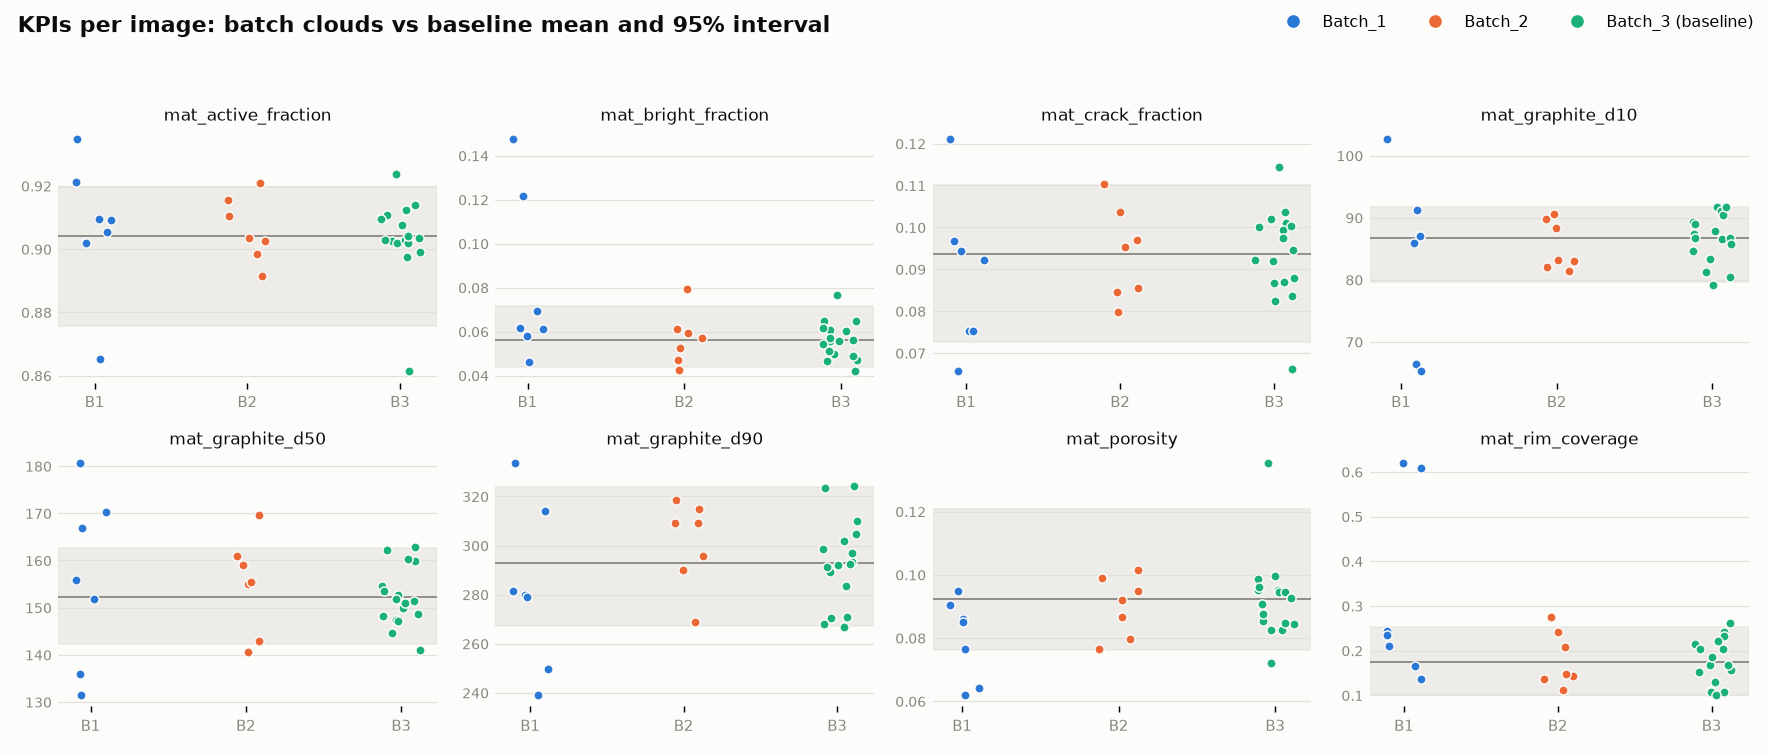
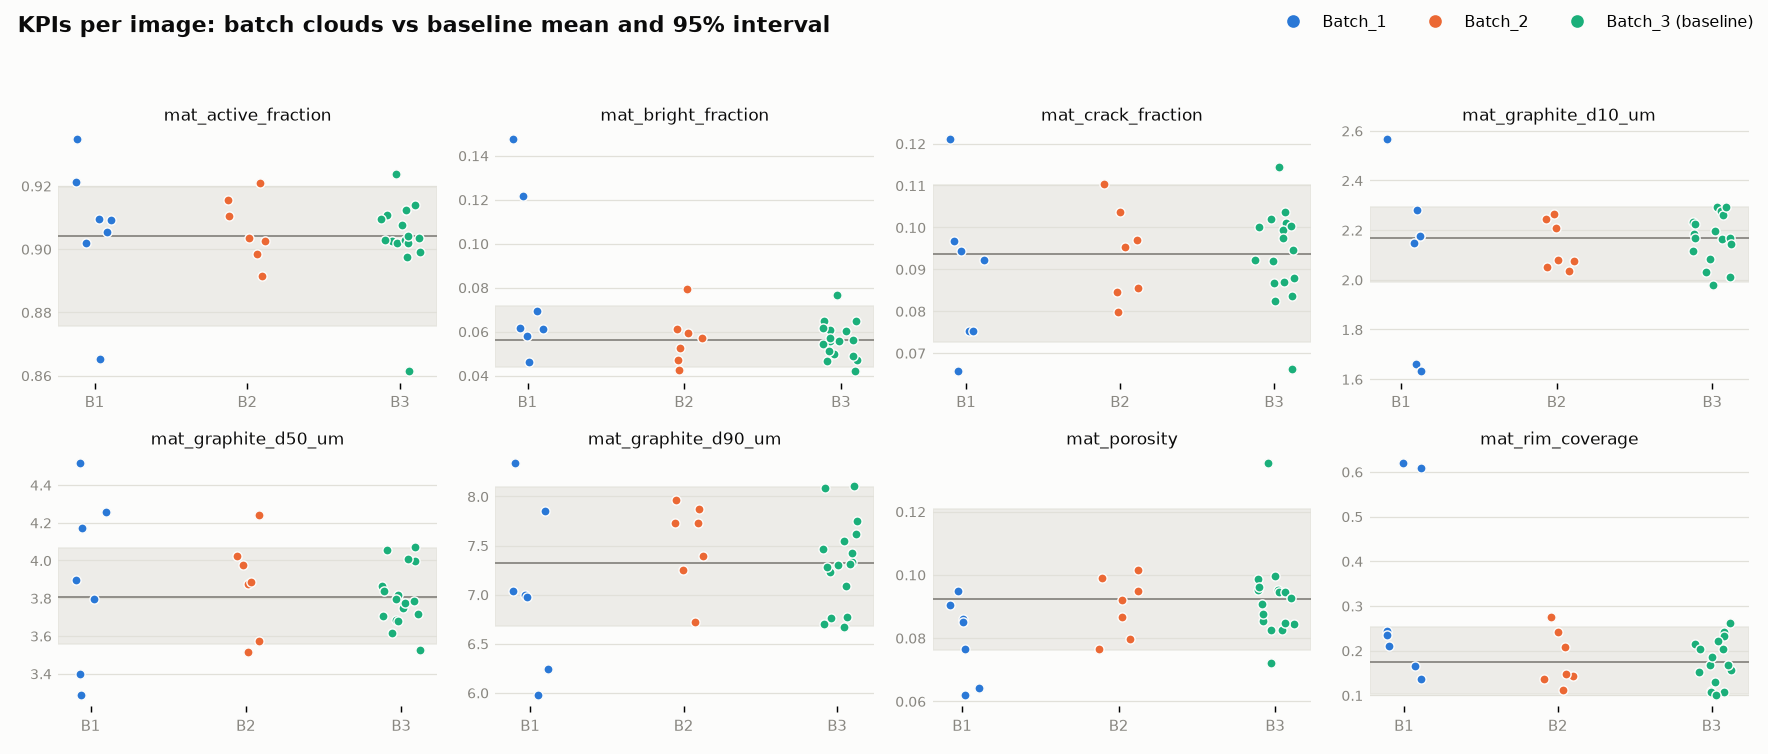
Report KPI lengths in um, write stats report from stats.py, parallelise run
- kpis_materials: compute() takes pixel_size_um (validated); graphite
  D10/D50/D90 are now in micrometres and renamed with the _um suffix,
  matching the geometric lane convention. Effect sizes, p-values and
  verdicts are invariant to the unit change; only the d-values scale.
- stats: the report is written to results/stats_baseline_<baseline>.txt
  by the script itself (and echoed to stdout). Root-cause fix for the
  stale report on main, which only existed via shell redirection and
  was skipped by the last regeneration.
- run: images fan out over a process pool (--jobs, default cpu-1 max 8,
  as in run_kpis.py); ~16 min serial -> ~2-3 min. Output rows sorted so
  parquets are deterministic regardless of completion order.
- Regenerated results: d10/d50/d90 = 2.17/3.80/7.32 um baseline;
  Batch_1 INVESTIGATE p=0.068, Batch_2 ACCEPT p=0.906 (unchanged).
  Refreshed leave-one-out: 11/17 baseline images flagged (the stale
  report said 9/17), confirming the calibration need for spec 003.

diff --git a/src/run.py b/src/run.py
@@ -3,15 +3,18 @@
 results/diagnostics.parquet. Everything downstream reads only these.
 
 KPI modules plug in via the shared interface
-compute(masks, instances, instances_border) -> dict[str, float];
+compute(masks, instances, instances_border, pixel_size_um) -> dict[str, float];
 modules not present yet (colleague's geometry, physics on Modal) are
-skipped with a notice.
+skipped with a notice. KPIs with a _um suffix are in micrometres.
 """
 
 from __future__ import annotations
 
+import argparse
 import importlib
+import os
 import sys
+from concurrent.futures import ProcessPoolExecutor, as_completed
 from pathlib import Path
 
 import numpy as np
@@ -27,51 +30,82 @@ TIERS = {"mat": "materials", "phys": "physics", "geo": "geometry"}
 MODULES = ["src.kpis_materials", "src.kpis_physics", "src.kpis_geometry"]
 
 
-def kpi_modules() -> list:
+def kpi_modules(quiet: bool = False) -> list:
     mods = []
     for name in MODULES:
         try:
             mods.append(importlib.import_module(name))
         except ImportError:
-            print(f"note: {name} not available, skipping")
+            if not quiet:
+                print(f"note: {name} not available, skipping")
     return mods
 
 
-def main() -> None:
-    cfg = load_config()
+def process_image(path: Path, batch: str, cfg: dict) -> dict:
+    """Segment one image and compute its KPIs. Runs in a worker process;
+    returns small dicts only (no arrays cross the process boundary)."""
     np.random.seed(cfg["seed"])
     ncfg = cfg["normalise"]
-    mods = kpi_modules()
+    norm, lo, hi = normalise(load(path), ncfg["p_low"], ncfg["p_high"])
+    masks = segment(norm, cfg)
+    instances, border = graphite_instances(masks, cfg)
 
+    rows = []
+    try:
+        for mod in kpi_modules(quiet=True):
+            for kpi, value in mod.compute(masks, instances, border,
+                                          cfg["pixel_size_um"]).items():
+                tier = TIERS.get(kpi.split("_")[0])
+                if tier is None:
+                    print(f"warning: KPI {kpi!r} has no mat_/phys_/geo_ "
+                          "prefix, tier set to 'other'")
+                    tier = "other"
+                rows.append({"image": path.stem, "batch": batch,
+                             "kpi": kpi, "value": value, "tier": tier})
+    except ValueError as e:
+        # unmeasurable image (e.g. no graphite segmented): flag it and keep
+        # going rather than losing the whole run
+        return {"failed": {"image": path.stem, "batch": batch, "error": str(e)}}
+    n_inst = len(np.unique(instances)) - 1
+    diag = {"image": path.stem, "batch": batch,
+            "norm_p05": lo, "norm_p995": hi,
+            "n_graphite_instances": n_inst,
+            "frac_border_instances": len(border) / max(n_inst, 1)}
+    return {"rows": rows, "diag": diag}
+
+
+def main() -> None:
+    parser = argparse.ArgumentParser()
+    parser.add_argument("--jobs", type=int,
+                        default=min(8, max(1, (os.cpu_count() or 2) - 1)),
+                        help="worker processes (default: cpu_count-1, max 8)")
+    args = parser.parse_args()
+
+    cfg = load_config()
+    kpi_modules()  # print the skipped-module notice once, up front
+
+    tasks = [(path, batch)
+             for batch, paths in list_batches(cfg).items()
+             for path in paths]
     rows, diags, failed = [], [], []
-    for batch, paths in list_batches(cfg).items():
-        for path in paths:
-            norm, lo, hi = normalise(load(path), ncfg["p_low"], ncfg["p_high"])
-            masks = segment(norm, cfg)
-            instances, border = graphite_instances(masks, cfg)
-
-            try:
-                for mod in mods:
-                    for kpi, value in mod.compute(masks, instances, border).items():
-                        tier = TIERS.get(kpi.split("_")[0])
-                        if tier is None:
-                            print(f"warning: KPI {kpi!r} has no mat_/phys_/geo_ "
-                                  "prefix, tier set to 'other'")
-                            tier = "other"
-                        rows.append({"image": path.stem, "batch": batch,
-                                     "kpi": kpi, "value": value, "tier": tier})
-            except ValueError as e:
-                # unmeasurable image (e.g. no graphite segmented): flag it
-                # and keep going rather than losing the whole run
-                failed.append({"image": path.stem, "batch": batch, "error": str(e)})
-                print(f"UNMEASURABLE {batch} {path.stem}: {e}")
+    with ProcessPoolExecutor(max_workers=args.jobs) as pool:
+        futures = {pool.submit(process_image, path, batch, cfg): (path, batch)
+                   for path, batch in tasks}
+        for n, fut in enumerate(as_completed(futures), 1):
+            path, batch = futures[fut]
+            res = fut.result()
+            if "failed" in res:
+                failed.append(res["failed"])
+                print(f"[{n}/{len(tasks)}] UNMEASURABLE {batch} {path.stem}: "
+                      f"{res['failed']['error']}")
                 continue
-            n_inst = len(np.unique(instances)) - 1
-            diags.append({"image": path.stem, "batch": batch,
-                          "norm_p05": lo, "norm_p995": hi,
-                          "n_graphite_instances": n_inst,
-                          "frac_border_instances": len(border) / max(n_inst, 1)})
-            print(f"{batch} {path.stem}: done")
+            rows.extend(res["rows"])
+            diags.append(res["diag"])
+            print(f"[{n}/{len(tasks)}] {batch} {path.stem}: done")
+
+    # deterministic output order regardless of completion order
+    rows.sort(key=lambda r: (r["batch"], r["image"], r["kpi"]))
+    diags.sort(key=lambda d: (d["batch"], d["image"]))
 
     out = ROOT / "results"
     out.mkdir(exist_ok=True)

diff --git a/src/stats.py b/src/stats.py
@@ -130,27 +130,40 @@ def main() -> None:
     out = ROOT / "results"
     eff.to_parquet(out / "effects.parquet", index=False)
 
-    print(f"baseline: {baseline} "
-          f"({len(wide.loc[baseline])} images, {wide.shape[1]} KPIs)\n")
+    # The report is written to a file alongside effects.parquet (and echoed
+    # to stdout) so it can never go stale relative to the parquets, as it
+    # did when it only existed via shell redirection.
+    lines: list[str] = []
+
+    def emit(text: str = "") -> None:
+        lines.append(text)
+        print(text)
+
+    emit(f"baseline: {baseline} "
+         f"({len(wide.loc[baseline])} images, {wide.shape[1]} KPIs)\n")
     for batch in eff.batch.unique():
         p_mv = hotelling_t2_p(wide, baseline, batch)
         sub = eff[eff.batch == batch]
         verdict, drivers = decide(sub, p_mv)
-        print(f"=== {batch}: {verdict.upper()} (multivariate p={p_mv:.4f}) ===")
-        print(sub.reindex(sub.effect_size.abs().sort_values(ascending=False).index)
-              [["kpi", "effect_size", "p_value", "baseline_mean", "batch_mean"]]
-              .head(5).to_string(index=False))
-        print()
+        emit(f"=== {batch}: {verdict.upper()} (multivariate p={p_mv:.4f}) ===")
+        emit(sub.reindex(sub.effect_size.abs().sort_values(ascending=False).index)
+             [["kpi", "effect_size", "p_value", "baseline_mean", "batch_mean"]]
+             .head(5).to_string(index=False))
+        emit()
 
-    print("--- within-batch CV (per KPI) ---")
-    print(consistency(wide).T.round(3).to_string())
+    emit("--- within-batch CV (per KPI) ---")
+    emit(consistency(wide).T.round(3).to_string())
 
-    print("\n--- leave-one-out false alarms on baseline ---")
+    emit("\n--- leave-one-out false alarms on baseline ---")
     loo = loo_false_alarms(wide, baseline, decide)
-    print(loo.to_string(index=False))
+    emit(loo.to_string(index=False))
     n_bad = (loo.verdict != "accept").sum()
-    print(f"\n{n_bad}/{len(loo)} baseline images would be flagged "
-          f"(this number goes on a slide)")
+    emit(f"\n{n_bad}/{len(loo)} baseline images would be flagged "
+         f"(this number goes on a slide)")
+
+    report = out / f"stats_baseline_{baseline}.txt"
+    report.write_text("\n".join(lines) + "\n", encoding="utf-8")
+    print(f"\nwrote {report.relative_to(ROOT)}")
 
 
 if __name__ == "__main__":

diff --git a/src/kpis_materials.py b/src/kpis_materials.py
@@ -2,10 +2,12 @@
 names, measures and specifies on a datasheet.
 
 Interface shared with kpis_geometry (colleague) and kpis_physics:
-compute(masks, instances) -> dict[str, float]
+compute(masks, instances, instances_border, pixel_size_um) -> dict[str, float]
 masks: dict of boolean arrays (pore, graphite, bright, rim)
 instances: labelled int array for graphite; border-touching labels in
 instances_border are excluded from size statistics.
+pixel_size_um: physical pixel size; KPIs with a _um suffix are in
+micrometres, all others are dimensionless fractions/ratios.
 """
 
 from __future__ import annotations
@@ -49,7 +51,9 @@ def _crack_mask(masks: dict[str, np.ndarray]) -> np.ndarray:
 
 
 def compute(masks: dict[str, np.ndarray], instances: np.ndarray,
-            instances_border: list[int]) -> dict[str, float]:
+            instances_border: list[int], pixel_size_um: float) -> dict[str, float]:
+    if not pixel_size_um or pixel_size_um <= 0:
+        raise ValueError(f"pixel_size_um must be positive, got {pixel_size_um!r}")
     total = masks["pore"].size
     graphite_px = masks["graphite"].sum()
     if graphite_px == 0:
@@ -71,11 +75,11 @@ def compute(masks: dict[str, np.ndarray], instances: np.ndarray,
 
     # Feedstock particle size distribution; first thing that moves when a
     # supplier changes milling or grade.
-    diam = _equivalent_diameters(instances, instances_border)
+    diam = _equivalent_diameters(instances, instances_border) * pixel_size_um
     if diam.size:
         d10, d50, d90 = np.percentile(diam, [10, 50, 90])
-        out.update({"mat_graphite_d10": d10, "mat_graphite_d50": d50,
-                    "mat_graphite_d90": d90})
+        out.update({"mat_graphite_d10_um": d10, "mat_graphite_d50_um": d50,
+                    "mat_graphite_d90_um": d90})
 
     # Intra-particle damage from over-calendering or weak feedstock.
     out["mat_crack_fraction"] = _crack_mask(masks).sum() / graphite_px

diff --git a/src/verdict.py b/src/verdict.py
@@ -15,9 +15,9 @@ import pandas as pd
 # physical-meaning sentences, quoted verbatim in reports and Q&A
 MEANINGS = {
     "mat_porosity": "The number every QC engineer already measures from cross-section SEM; shifts with calendering pressure and slurry solids content.",
-    "mat_graphite_d10": "Feedstock particle size distribution; first thing that moves when a supplier changes milling or grade.",
-    "mat_graphite_d50": "Feedstock particle size distribution; first thing that moves when a supplier changes milling or grade.",
-    "mat_graphite_d90": "Feedstock particle size distribution; first thing that moves when a supplier changes milling or grade.",
+    "mat_graphite_d10_um": "Feedstock particle size distribution; first thing that moves when a supplier changes milling or grade.",
+    "mat_graphite_d50_um": "Feedstock particle size distribution; first thing that moves when a supplier changes milling or grade.",
+    "mat_graphite_d90_um": "Feedstock particle size distribution; first thing that moves when a supplier changes milling or grade.",
     "mat_bright_fraction": "Phase loading of the higher-Z component (e.g. silicon or SiOx content); formulation signature.",
     "mat_orientation_anisotropy": "Degree of flake alignment produced by calendering; over-alignment raises through-plane tortuosity and sheet resistance.",
     "mat_crack_fraction": "Intra-particle damage from over-calendering or weak feedstock.",
